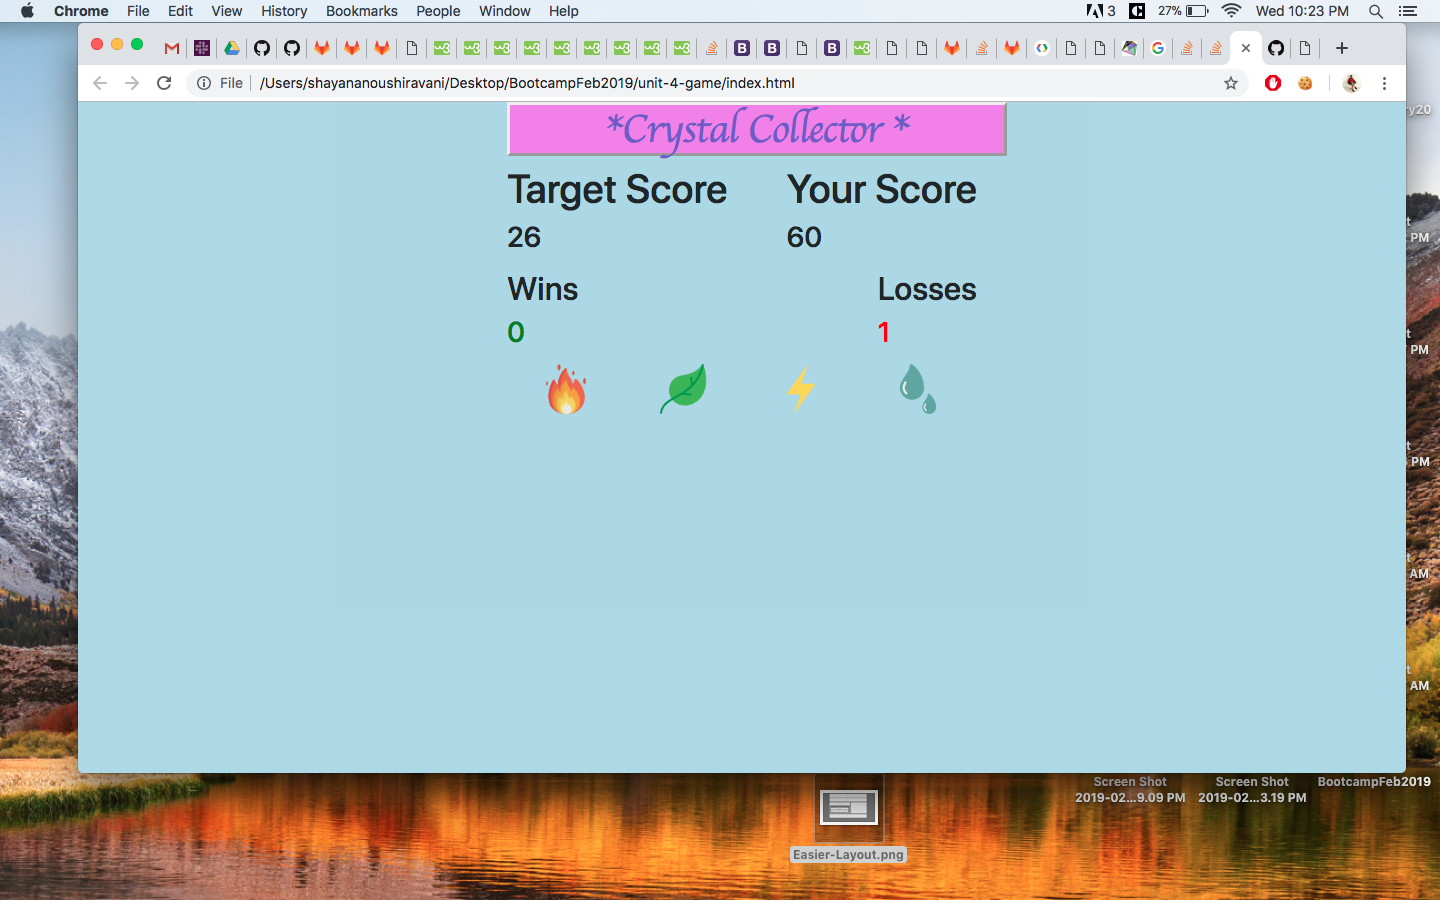
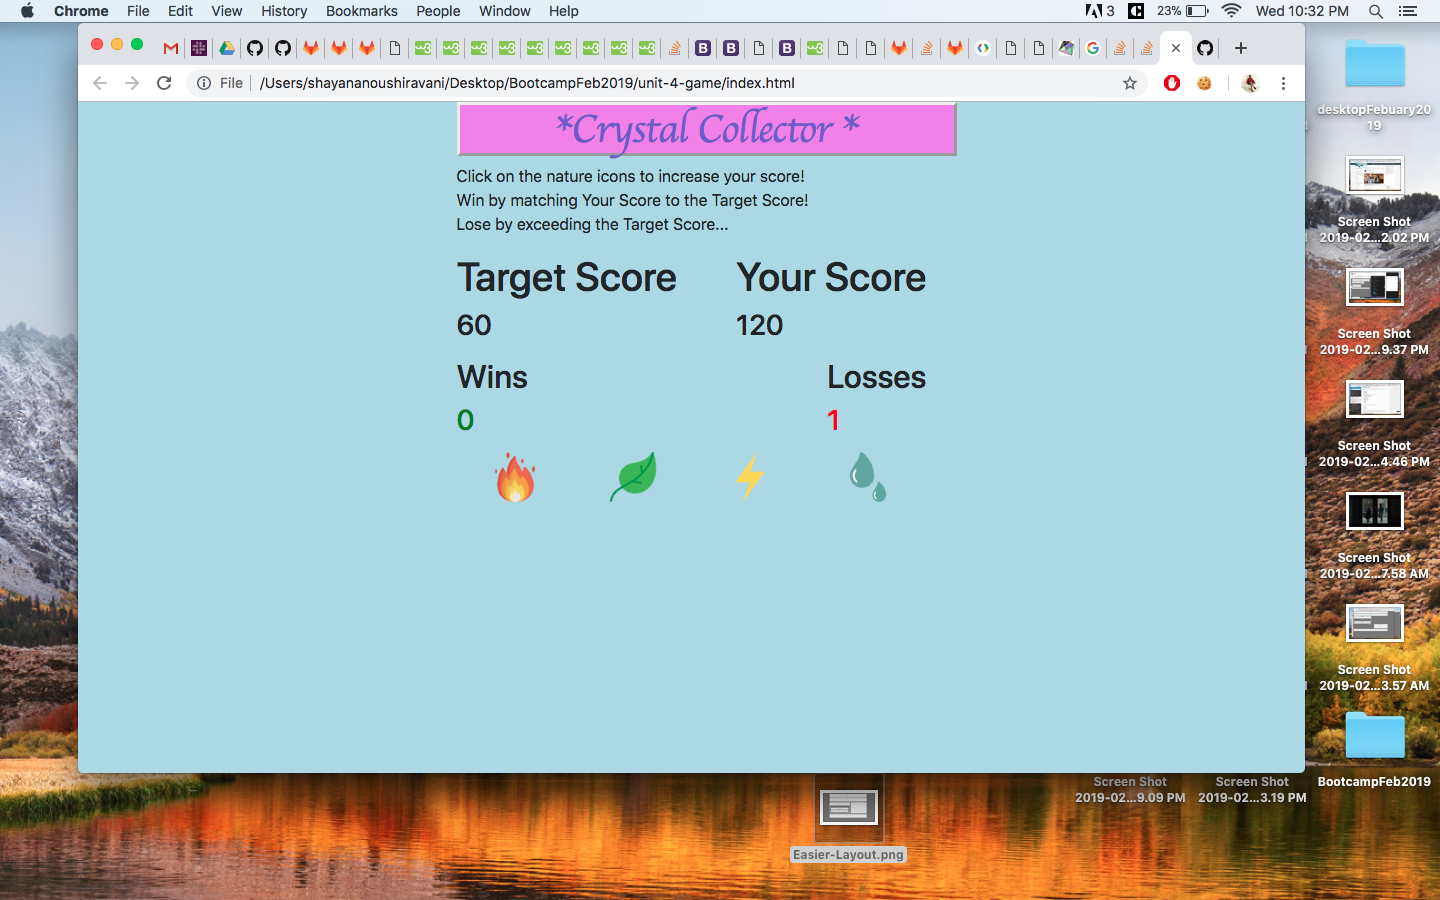
added screenshots, and game instructions

diff --git a/index.html b/index.html
@@ -20,7 +20,7 @@
 
 
     </header>
-
+<p> Click on the nature icons to increase your score! <br> Win by matching Your Score to the Target Score! <br> Lose by exceeding the Target Score... </p>
     <div class="rows" id="toprow">
             <div>
                 <h1>Target Score</h1>
